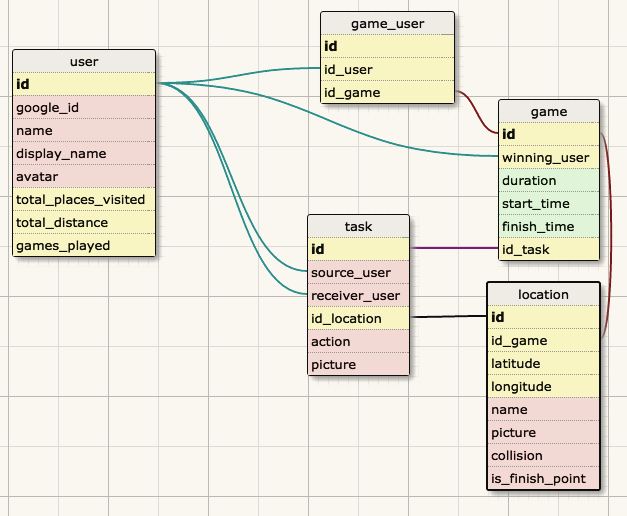
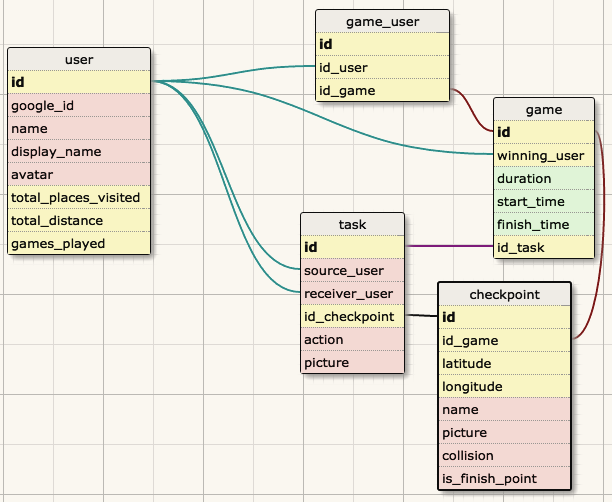
Update schema

diff --git a/README.md b/README.md
@@ -38,7 +38,7 @@ On the client side, the state of the app is maintained in a Redux store. We rend
 
 #### Schema
 User data and saved places are managed in a Postgres database called `city_scavenge`.
-![Schema design](http://i.imgur.com/dWzpSdG.png)
+![Schema design](http://i.imgur.com/F1wv2A9.png)
 
 ## Usage
 You'll need API keys for [Google Maps](https://developers.google.com/maps/documentation/javascript/get-api-key), [Google Maps Geolocation](https://developers.google.com/maps/documentation/geolocation/get-api-key), and for ??[Google Places](https://developers.google.com/places/web-service/get-api-key)??. Add these to the config files in `/server/config`, following the format of the example files. Remove `.example` from the filename.
